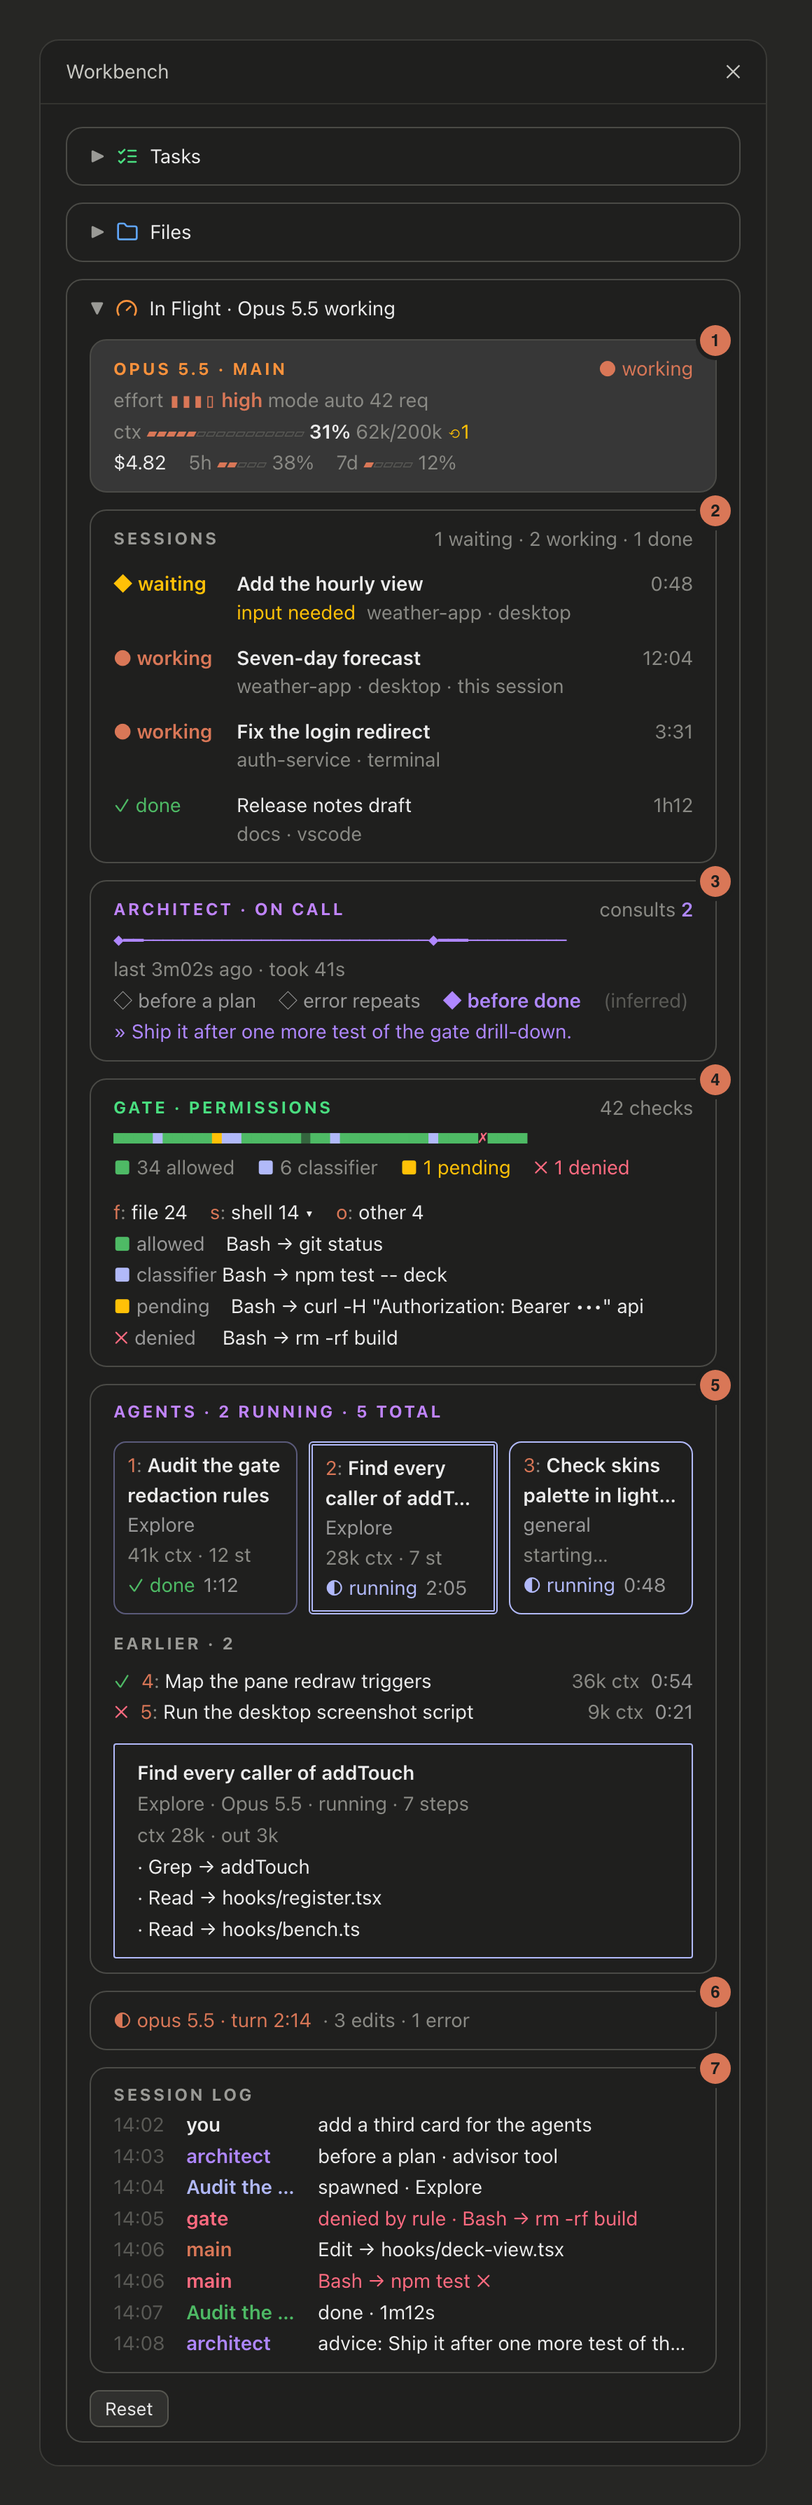
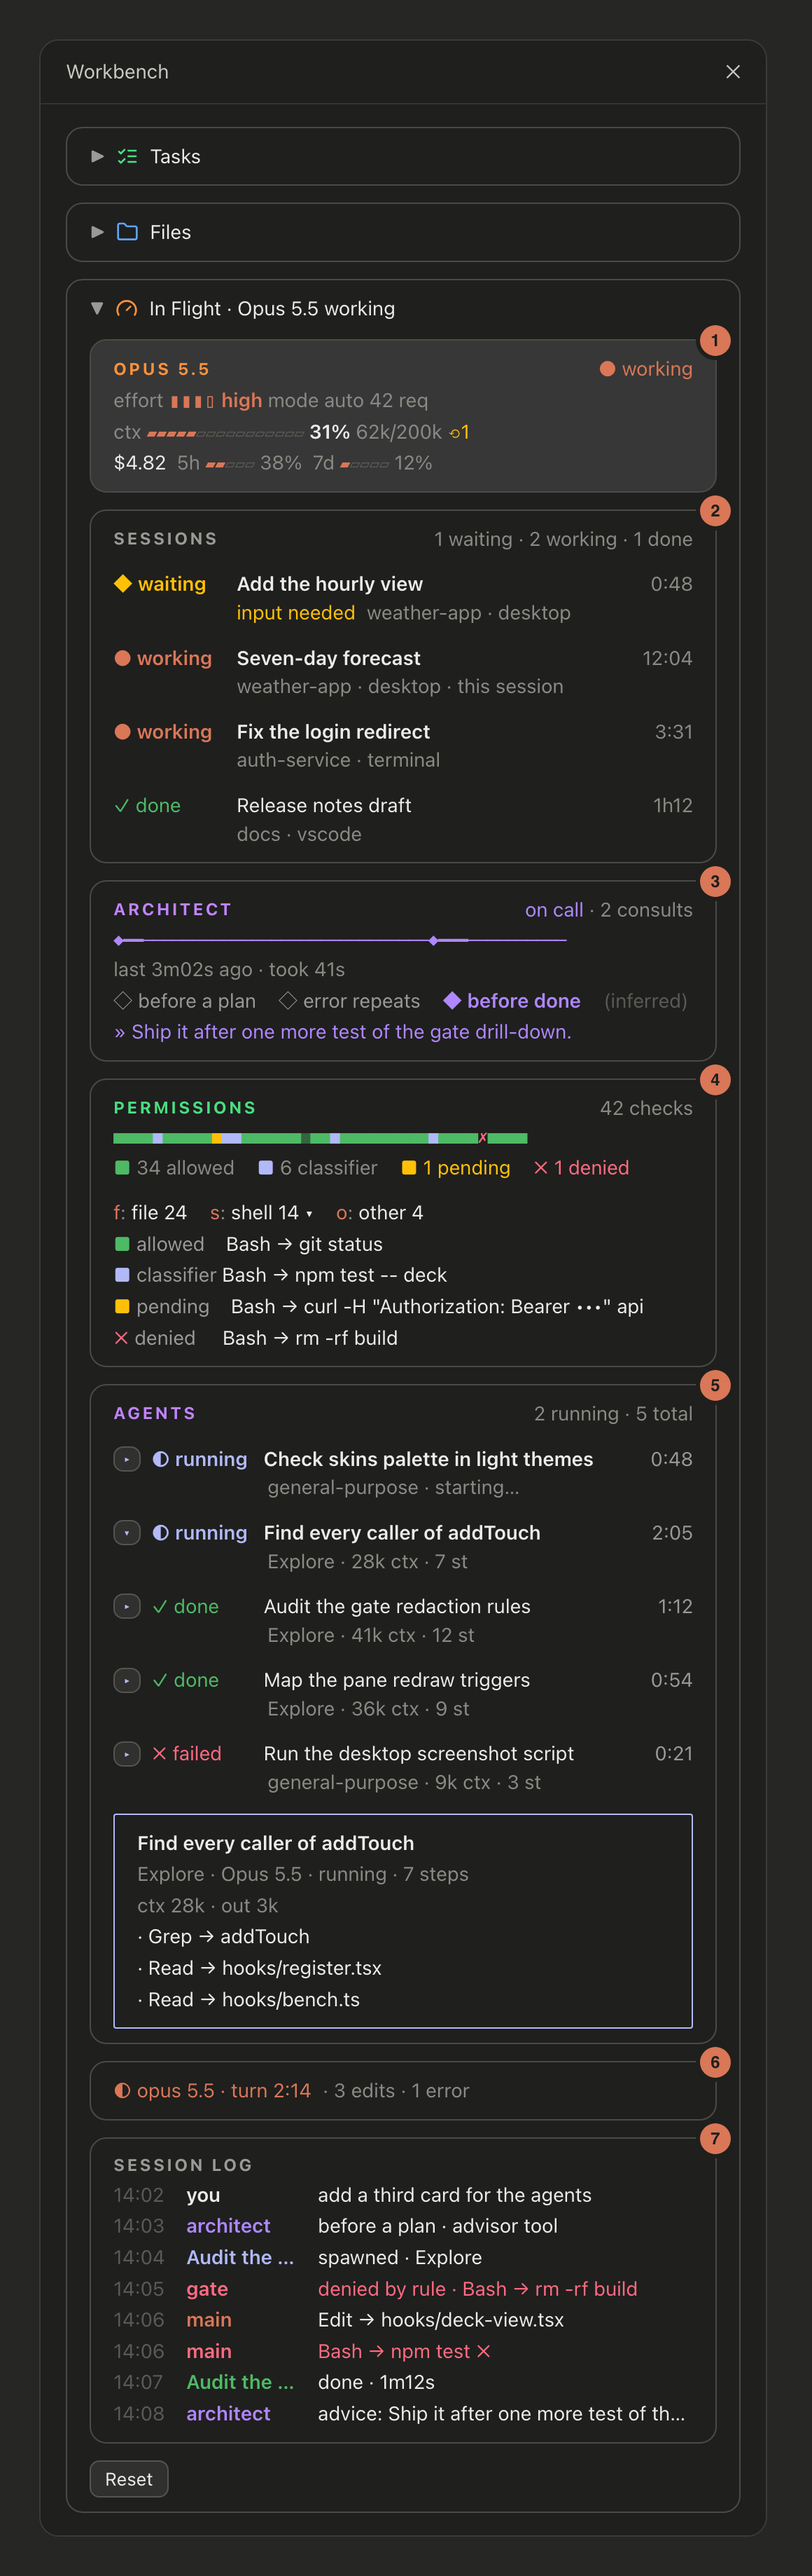
In Flight: agents stack one per row like Sessions instead of three tiles that overlapped in a narrow pane; each row stays on one line when squeezed (title truncates, ▸ expands); turn and cost lines no longer wrap; caps headers carry only the name; README mockup redrawn; 0.1.31

diff --git a/hooks/deck-view.tsx b/hooks/deck-view.tsx
@@ -1,5 +1,5 @@
 // The In Flight card's drawing, stacked for the Workbench's one column: main vitals, the
-// sessions on this machine, the architect, the permission gate, agent cards and lanes, other loops, the turn receipt and the
+// sessions on this machine, the architect, the permission gate, the agents list, other loops, the turn receipt and the
 // session log. Pure: register.tsx reads the state and passes the presses back in.
 //
 // Adapted from claude-flightdeck (https://github.com/scasella/claude-flightdeck, hooks/register.tsx),
@@ -10,13 +10,12 @@ import type { DeckAgent, DeckBucket, DeckCheck, DeckLogLine, DeckSession } from 
 import type { Palette, Slot } from './bench'
 import {
   cardTitle, consultTimeline, fmtDuration, fmtTimer, fmtUsd, gateSummary, gauge, isAdvising, isLoopActive, kTokens,
-  limitLabel, plural, prettyModel, sessionsLine, shorten, titleLines,
+  limitLabel, plural, prettyModel, sessionsLine, shorten,
 } from './deck'
 import type { DeckData } from './deck'
 
-/** Agent tiles side by side; earlier agents are listed below them, this many rows at most. */
-const TILES = 3
-const EARLIER_ROWS = 6
+/** Agents listed, newest first, before `+n more`. */
+const AGENT_ROWS = 6
 const ARCH_LABEL = 'Architect'
 /** Sessions listed before `+n more`. */
 const SESSION_ROWS = 8
@@ -87,7 +86,7 @@ export function deckKids(d: DeckData, kit: DeckKit): unknown[] {
   const ctx = u.pct !== null ? gauge(u.pct, Math.min(16, Math.max(6, w - 18))) : null
   out.push(
     card('fd-main', [
-      head('fd-main-h', `${modelName} · main`, 'main', <Text key="fd-run" color={m.isRunning ? col('main') : col('dim')}>{m.isRunning ? '● working' : '○ idle'}</Text>),
+      head('fd-main-h', modelName, 'main', <Text key="fd-run" color={m.isRunning ? col('main') : col('dim')}>{m.isRunning ? '● working' : '○ idle'}</Text>),
       <Text key="fd-effort" wrap="truncate-end">
         <Text dimColor>effort </Text>
         <Text color={col('main')}>{'▮'.repeat(effortN) + '▯'.repeat(4 - effortN)} </Text>
@@ -106,20 +105,20 @@ export function deckKids(d: DeckData, kit: DeckKit): unknown[] {
         </Text>
       ) : null,
       u.costUsd !== null || u.limits.length > 0 ? (
-        <Box key="fd-cost" flexDirection="row" flexWrap="wrap" columnGap={2}>
-          {u.costUsd !== null ? <Text key="fd-usd" color={col('text')}>{fmtUsd(u.costUsd)}</Text> : null}
-          {u.limits.slice(0, 2).map(l => {
+        <Text key="fd-cost" wrap="truncate-end">
+          {u.costUsd !== null ? <Text color={col('text')}>{fmtUsd(u.costUsd)}</Text> : null}
+          {u.limits.slice(0, 2).map((l, i) => {
             const lg = gauge(l.pct, 5)
             return (
               <Text key={'fd-lim-' + l.kind}>
-                <Text dimColor>{`${limitLabel(l.kind)} `}</Text>
+                <Text dimColor>{`${u.costUsd !== null || i > 0 ? '  ' : ''}${limitLabel(l.kind)} `}</Text>
                 <Text color={l.pct >= 80 ? col('warn') : col('main')}>{lg.on}</Text>
                 <Text color={col('faint')}>{lg.off}</Text>
                 <Text dimColor>{` ${Math.round(l.pct)}%`}</Text>
               </Text>
             )
           })}
-        </Box>
+        </Text>
       ) : null,
     ], 1, true),
   )
@@ -155,7 +154,7 @@ export function deckKids(d: DeckData, kit: DeckKit): unknown[] {
     const last = a.consults[a.consults.length - 1]
     out.push(
       card('fd-arch', [
-        head('fd-arch-h', `${ARCH_LABEL} · ${advising ? 'advising' : 'on call'}`, 'arch', <Text key="fd-arch-n"><Text dimColor>consults </Text><Text color={col('arch')} bold>{a.consults.length}</Text></Text>),
+        head('fd-arch-h', ARCH_LABEL, 'arch', <Text key="fd-arch-n"><Text color={col('arch')}>{advising ? 'advising' : 'on call'}</Text><Text dimColor>{` · ${plural(a.consults.length, 'consult')}`}</Text></Text>),
         <Text key="fd-arch-tl" color={col('arch')}>{consultTimeline(a, now, w)}</Text>,
         <Text key="fd-arch-last" dimColor wrap="truncate-end">
           {!last ? 'not consulted yet'
@@ -180,7 +179,7 @@ export function deckKids(d: DeckData, kit: DeckKit): unknown[] {
     const said = (c: DeckCheck) => (c.verdict === 'rule' ? 'allowed' : c.verdict === 'cleared' ? decider : c.verdict === 'ask' ? 'pending' : 'denied')
     const open = v.gateOpen
     const kids: unknown[] = [
-      head('fd-gate-h', 'Gate · permissions', 'gate', <Text key="fd-gate-n" dimColor>{plural(s.total, 'check')}</Text>),
+      head('fd-gate-h', 'Permissions', 'gate', <Text key="fd-gate-n" dimColor>{plural(s.total, 'check')}</Text>),
       <Text key="fd-strip" wrap="truncate-end">
         {g.recent.slice(-w).map((c, i) => <Text key={'fd-c-' + i} color={verdictColor(c)} dimColor={c.inSubagent}>{c.verdict === 'deny' ? '✗' : '■'}</Text>)}
       </Text>,
@@ -213,53 +212,36 @@ export function deckKids(d: DeckData, kit: DeckKit): unknown[] {
     out.push(card('fd-gate', kids, 1))
   }
 
-  // ── agents: the newest three as tiles side by side, any earlier ones listed below
+  // ── agents: one full-width row each, newest first, like Sessions. The title is Text so it truncates: a desktop
+  // draws a Button natively and wraps its label, so the press sits on the ▸ in front.
   if (cards.length > 0) {
     const statusColor = (c: DeckAgent) => (c.status === 'failed' ? col('warn') : c.status === 'done' ? col('gate') : col('agent'))
     const glyph = (c: DeckAgent) => (c.status === 'running' ? '◐' : c.status === 'done' ? '✓' : c.status === 'failed' ? '✗' : '■')
     const expand = (id: string) => () => kit.onExpand(id)
-    const tiles = cards.slice(-TILES)
-    const earlier = cards.slice(0, -TILES).reverse()
-    // Each tile shares the row; its text gets the tile less its border and padding.
-    const inner = Math.max(6, Math.floor((w - (tiles.length - 1)) / tiles.length) - 4)
-    const kids: unknown[] = [head('fd-ag-h', `Agents · ${running.length} running · ${cards.length} total`, 'agent')]
-    kids.push(
-      <Box key="fd-tiles" flexDirection="row" columnGap={1} marginTop={1} width="100%">
-        {tiles.map((c, i) => {
-          const title = titleLines(cardTitle(c), inner - 3, inner)
-          const sameModel = !c.model || prettyModel(c.model) === modelName
-          const isMax = c.lastStop === 'max_tokens'
-          return (
-            <Box key={'fd-cd-' + c.id} flexDirection="column" width={`${Math.floor(100 / tiles.length)}%`} flexShrink={1} minWidth={0}
-              borderStyle={v.expanded === c.id ? 'double' : 'round'} borderColor={isMax ? col('warn') : col('agent')} borderDimColor={c.status !== 'running' && v.expanded !== c.id} paddingX={1}>
-              <Button key={'fd-cb-' + c.id} plain hotkey={String(i + 1)} label={title[0]} onPress={expand(c.id)} />
-              <Text bold wrap="truncate-end">{title[1] || ' '}</Text>
-              <Text color={col('dim')} wrap="truncate-end">{sameModel ? c.type : `${c.type} · ${prettyModel(c.model)}`}</Text>
-              <Text dimColor wrap="truncate-end">{c.steps > 0 ? `${kTokens(c.ctx)} ctx · ${c.steps} st` : 'starting…'}</Text>
-              <Box flexDirection="row" columnGap={1}>
-                <Text color={isMax ? col('warn') : statusColor(c)} wrap="truncate-end">{`${glyph(c)} ${isMax ? 'max_tokens' : c.status}`}</Text>
-                <Box flexShrink={0}>{clock('fd-cc-' + c.id, c.spawnedAt, c.endedAt, col('dim'))}</Box>
-              </Box>
+    const rows = cards.slice().reverse()
+    const kids: unknown[] = [head('fd-ag-h', 'Agents', 'agent', <Text key="fd-ag-n" dimColor>{`${running.length} running · ${cards.length} total`}</Text>)]
+    for (const [i, c] of rows.slice(0, AGENT_ROWS).entries()) {
+      const isMax = c.lastStop === 'max_tokens'
+      const sameModel = !c.model || prettyModel(c.model) === modelName
+      const meta = [sameModel ? c.type : `${c.type} · ${prettyModel(c.model)}`, c.steps > 0 ? `${kTokens(c.ctx)} ctx · ${c.steps} st` : 'starting…'].join(' · ')
+      kids.push(
+        <Box key={'fd-ag-' + c.id} flexDirection="column" marginTop={1} width="100%">
+          <Box flexDirection="row" columnGap={1} width="100%">
+            <Box flexShrink={0}>
+              <Button key={'fd-cb-' + c.id} plain hotkey={i < 9 ? String(i + 1) : undefined} label={v.expanded === c.id ? '▾' : '▸'} onPress={expand(c.id)} />
             </Box>
-          )
-        })}
-      </Box>,
-    )
-    if (earlier.length) {
-      kids.push(<Box key="fd-ag-earlier" marginTop={1}>{capsText('fd-ag-earlier-l', `Earlier · ${earlier.length}`, slot('dim'))}</Box>)
-      for (const [i, c] of earlier.slice(0, EARLIER_ROWS).entries())
-        kids.push(
-          <Box key={'fd-er-' + c.id} flexDirection="row" columnGap={1} alignItems="center" width="100%">
-            <Text color={statusColor(c)}>{glyph(c)}</Text>
-            <Box flexGrow={1} flexShrink={1} minWidth={0}>
-              <Button key={'fd-eb-' + c.id} plain hotkey={i + TILES < 9 ? String(i + TILES + 1) : undefined} label={shorten(cardTitle(c), Math.max(8, w - 18))} onPress={expand(c.id)} />
-            </Box>
-            {c.steps > 0 ? <Text dimColor>{`${kTokens(c.ctx)} ctx`}</Text> : null}
-            <Box flexShrink={0}>{clock('fd-ec-' + c.id, c.spawnedAt, c.endedAt, col('dim'))}</Box>
-          </Box>,
-        )
-      if (earlier.length > EARLIER_ROWS) kids.push(<Text key="fd-ag-more" color={col('faint')}>{`+${earlier.length - EARLIER_ROWS} more`}</Text>)
+            <Box width={9} flexShrink={0}><Text color={isMax ? col('warn') : statusColor(c)} bold={c.status === 'running'} wrap="truncate-end">{`${glyph(c)} ${c.status}`}</Text></Box>
+            <Box flexGrow={1} flexShrink={1} minWidth={0}><Text bold={c.status === 'running'} wrap="truncate-end">{cardTitle(c)}</Text></Box>
+            <Box flexShrink={0}>{clock('fd-cc-' + c.id, c.spawnedAt, c.endedAt, col('dim'))}</Box>
+          </Box>
+          <Box flexDirection="row" columnGap={1} paddingLeft={13} width="100%">
+            {isMax ? <Box flexShrink={0}><Text color={col('warn')}>max_tokens</Text></Box> : null}
+            <Box flexGrow={1} flexShrink={1} minWidth={0}><Text dimColor wrap="truncate-end">{meta}</Text></Box>
+          </Box>
+        </Box>,
+      )
     }
+    if (rows.length > AGENT_ROWS) kids.push(<Text key="fd-ag-more" color={col('faint')}>{`+${rows.length - AGENT_ROWS} more`}</Text>)
     const x = cards.find(c => c.id === v.expanded)
     if (x) {
       kids.push(
@@ -273,7 +255,7 @@ export function deckKids(d: DeckData, kit: DeckKit): unknown[] {
         </Box>,
       )
     }
-    kids.push(<Text key="fd-ag-hint" color={col('faint')}>{`press an agent to expand it · 1-${Math.min(9, cards.length)} when the pane has focus`}</Text>)
+    kids.push(<Text key="fd-ag-hint" color={col('faint')}>{`press ▸ to expand an agent · 1-${Math.min(9, cards.length)} when the pane has focus`}</Text>)
     out.push(card('fd-agents', kids, 1))
   }
 
@@ -282,8 +264,8 @@ export function deckKids(d: DeckData, kit: DeckKit): unknown[] {
     const active = lp.filter(l => isLoopActive(l, now)).length
     out.push(
       <Box key="fd-loops" flexDirection="row" columnGap={1} marginTop={1} width="100%">
-        <Text bold>other loops</Text>
-        <Text dimColor>{`${lp.length} seen · ${active} active`}</Text>
+        <Box flexShrink={0}><Text bold>other loops</Text></Box>
+        <Box flexShrink={0}><Text dimColor>{`${lp.length} seen · ${active} active`}</Text></Box>
         <Text wrap="truncate-end">
           {lp.slice(-Math.max(4, w - 28)).map((l, i) => (
             <Text key={'fd-lp-' + i} color={isLoopActive(l, now) ? col('agent') : l.isDone ? col('dim') : col('faint')}>{isLoopActive(l, now) ? '●' : l.isDone ? '✓' : '○'}</Text>
@@ -298,10 +280,10 @@ export function deckKids(d: DeckData, kit: DeckKit): unknown[] {
     out.push(
       card('fd-receipt', [
         m.isRunning ? (
-          <Box key="fd-rc" flexDirection="row" flexWrap="wrap" columnGap={1}>
-            <Text color={col('main')}>{`◐ ${modelName.toLowerCase()} · turn`}</Text>
+          <Box key="fd-rc" flexDirection="row" columnGap={1} width="100%">
+            <Box flexShrink={0}><Text color={col('main')}>{`◐ ${modelName.toLowerCase()} · turn`}</Text></Box>
             <Box flexShrink={0}>{clock('fd-turn', t.startedAt, null, col('main'))}</Box>
-            <Text dimColor>{`· ${plural(t.edits, 'edit')} · ${plural(t.errors, 'error')}`}</Text>
+            <Box flexGrow={1} flexShrink={1} minWidth={0}><Text dimColor wrap="truncate-end">{`· ${plural(t.edits, 'edit')} · ${plural(t.errors, 'error')}`}</Text></Box>
           </Box>
         ) : r ? (
           <Text key="fd-rc" wrap="wrap">

diff --git a/tests/deck.test.tsx b/tests/deck.test.tsx
@@ -184,24 +184,23 @@ test('the gate fills from checks, a row opens its redacted drill-down, and Reset
   await ui.unmount()
 })
 
-test('the newest three agents are tiles; earlier ones are listed below; a tile expands', async ($, on) => {
+test('agents are listed one per row, newest first, six at most; a row expands', async ($, on) => {
   world(on)
   let n = 0
   on('agent.spawn', () => ({ model: 'claude-opus-5-5', agentId: `w${++n}` }))
   await $.session.start({ source: 'startup', cwd: ROOT } as never)
   await $.turn.start({ text: 'go', turnId: 'W1' })
   await $.agent.spawn(spawn('Explore', 'task alpha'))
-  const ui = await $.ui.mount(pane('terminal', 90))
+  const ui = await $.ui.mount(pane('terminal', 44))
   await ui.press({ key: 'bd-toggle' })
-  expect(await ui.find({ text: /1 running · 1 total/i })).toBeDefined()
+  expect(await ui.find({ text: /^1 running · 1 total$/ })).toBeDefined()
   await ui.press({ key: 'fd-cb-w1' })
   expect(await ui.find({ text: /no tool calls yet/ })).toBeDefined()
-  for (const d of ['beta', 'gamma', 'delta', 'epsilon']) await $.agent.spawn(spawn('Explore', `task ${d}`))
-  // Tiles: gamma, delta, epsilon. Listed below, newest first: beta, alpha.
-  for (const id of ['w3', 'w4', 'w5']) expect(await ui.find({ key: 'fd-cb-' + id })).toBeDefined()
-  for (const id of ['w2', 'w1']) expect(await ui.find({ key: 'fd-eb-' + id })).toBeDefined()
+  for (const d of ['beta', 'gamma', 'delta', 'epsilon', 'zeta', 'eta']) await $.agent.spawn(spawn('Explore', `task ${d}`))
+  // Seven agents: the newest six get rows, alpha falls under +1 more
+  for (const id of ['w2', 'w3', 'w4', 'w5', 'w6', 'w7']) expect(await ui.find({ key: 'fd-cb-' + id })).toBeDefined()
   expect(await ui.find({ key: 'fd-cb-w1' })).toBeUndefined()
-  expect(await ui.find({ text: /Earlier · 2/i })).toBeDefined()
+  expect(await ui.find({ text: /^\+1 more$/ })).toBeDefined()
   await ui.unmount()
 })
 
@@ -216,10 +215,10 @@ test('the server-side advisor is read from assistant rows: advising, then on cal
   await row([{ type: 'server_tool_use', id: 'srv1', name: 'advisor', input: {} }])
   const ui = await $.ui.mount(pane('terminal'))
   await ui.press({ key: 'bd-toggle' })
-  expect(await ui.find({ text: /ARCHITECT · ADVISING/ })).toBeDefined()
+  expect(await ui.find({ text: /^advising$/ })).toBeDefined()
   expect(await ui.find({ text: /◆ before a plan/ })).toBeDefined()
   await row([{ type: 'advisor_tool_result', tool_use_id: 'srv1', content: { type: 'advisor_redacted_result' } }])
-  expect(await ui.find({ text: /ARCHITECT · ON CALL/ })).toBeDefined()
+  expect(await ui.find({ text: /^on call$/ })).toBeDefined()
   await ui.unmount()
 })
 

diff --git a/README.md b/README.md
@@ -72,7 +72,7 @@ What Claude and its subagents are doing right now, adapted from [claude-flightde
 2. **Sessions.** Every Claude Code session running on your machine (desktop app, VS Code, terminal): waiting first, then working, then done, each with its title, folder, where it runs and how long it's been in that state. A waiting session says what it waits for (`input needed`, `dialog open`). Collapsed, the box's header still counts them: `In Flight · 1 waiting · 2 working · 1 done`. It reads the registry Claude Code keeps in `~/.claude/sessions` every 3 seconds and checks each process is still running with `ps`, so closed sessions drop off (macOS and Linux).
 3. **Architect.** Shows up once Claude consults an advisor or architect agent: each consult on a timeline, when it happened (before a plan, after repeated errors, before done; inferred), and the last advice.
 4. **Gate.** One square per permission check. Green was allowed by your settings, blue by the auto-mode classifier or you, amber is waiting for you, red ✗ was denied; checks inside subagents are dimmed. `file`, `shell` and `other` open the last five checks of that kind, with credentials masked.
-5. **Agents.** The three newest subagents as tiles: task, type, context, steps, status and a running clock. Earlier ones are listed below. Press one to see its last tool calls and the start of its answer.
+5. **Agents.** One row per subagent, newest first, six at most: status, task and a running clock, with type, context and steps under it. Each row stays on one line however narrow the pane. Press ▸ to see its last tool calls and the start of its answer.
 6. **Turn.** The turn in progress with its clock, edits and errors, or a receipt for the last one with its cost.
 7. **Session log.** Prompts, spawns, consults, edits, errors and denials as they happen.
 
